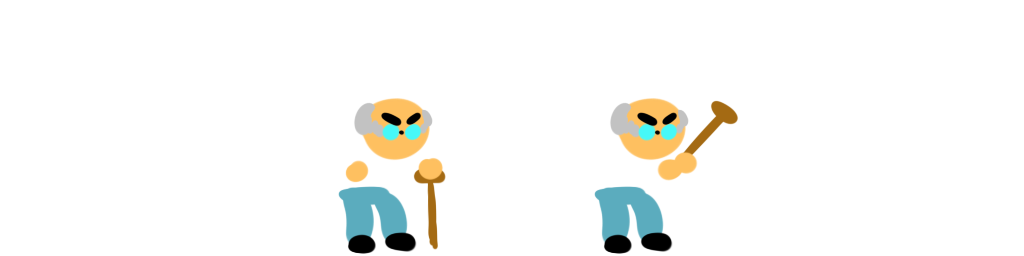
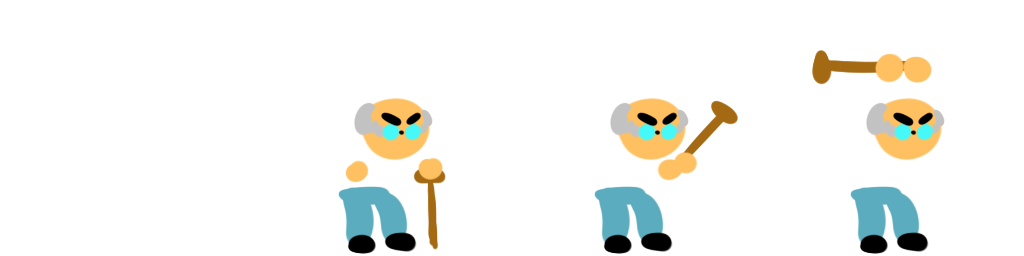
Fix effects

Changed region(s): [[0.8125, 0.7188, 0.9062, 1.0], [0.8438, 0.375, 0.9375, 0.625], [0.7812, 0.1875, 0.9375, 0.3438]]

diff --git a/src/ailib.c b/src/ailib.c
@@ -691,8 +691,9 @@ void ai_cranky(void *dummy, void *entry, MOVABLE_MSG msg) {
 			} else if (state->state == AI_CRANKY_EFFECT) {
 				self->direction = 2;
 				if (d_time_get() >= state->next + state->timer) {
-					_trigger_effect(self->x + (rand() % 300000), self->y + (rand() % 300000), -1, rand() % 4);
+					_trigger_effect((self->x + (rand() % 300000) - 150000)/1000, (self->y + (rand() % 300000) - 150000)/1000, -1, rand() % 4);
 					state->counter--;
+					state->timer = d_time_get();
 					if (!state->counter) {
 						state->state = AI_CRANKY_HIDING;
 						state->timer = d_time_get();
